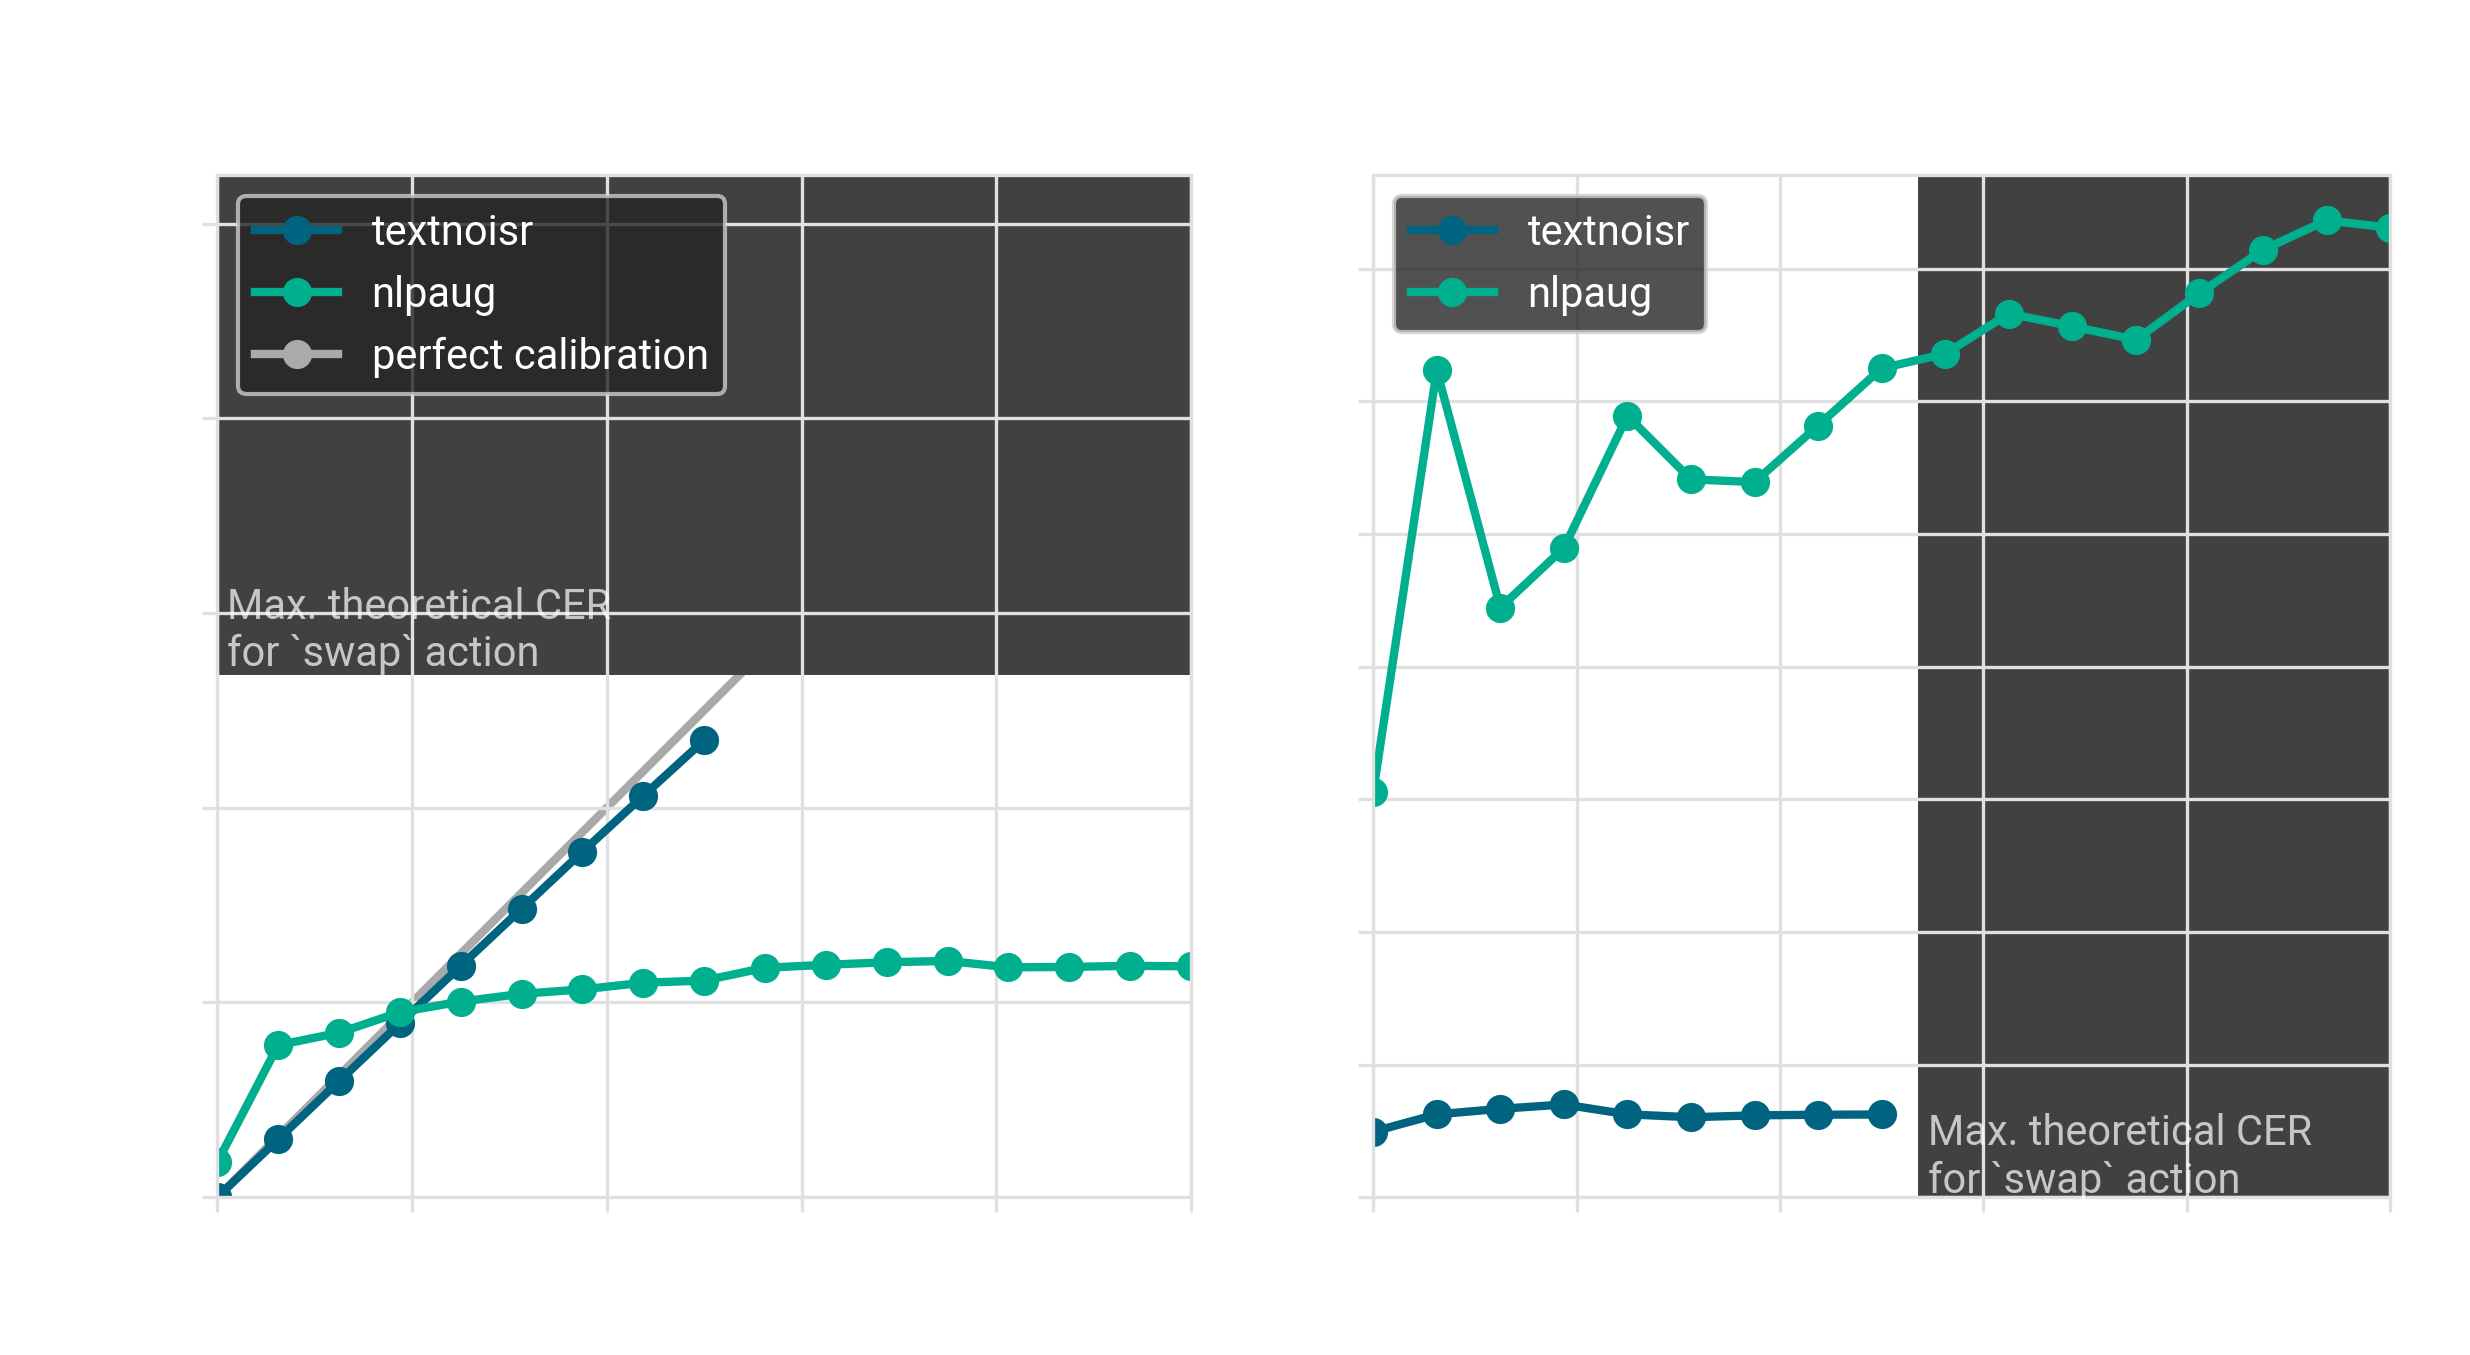
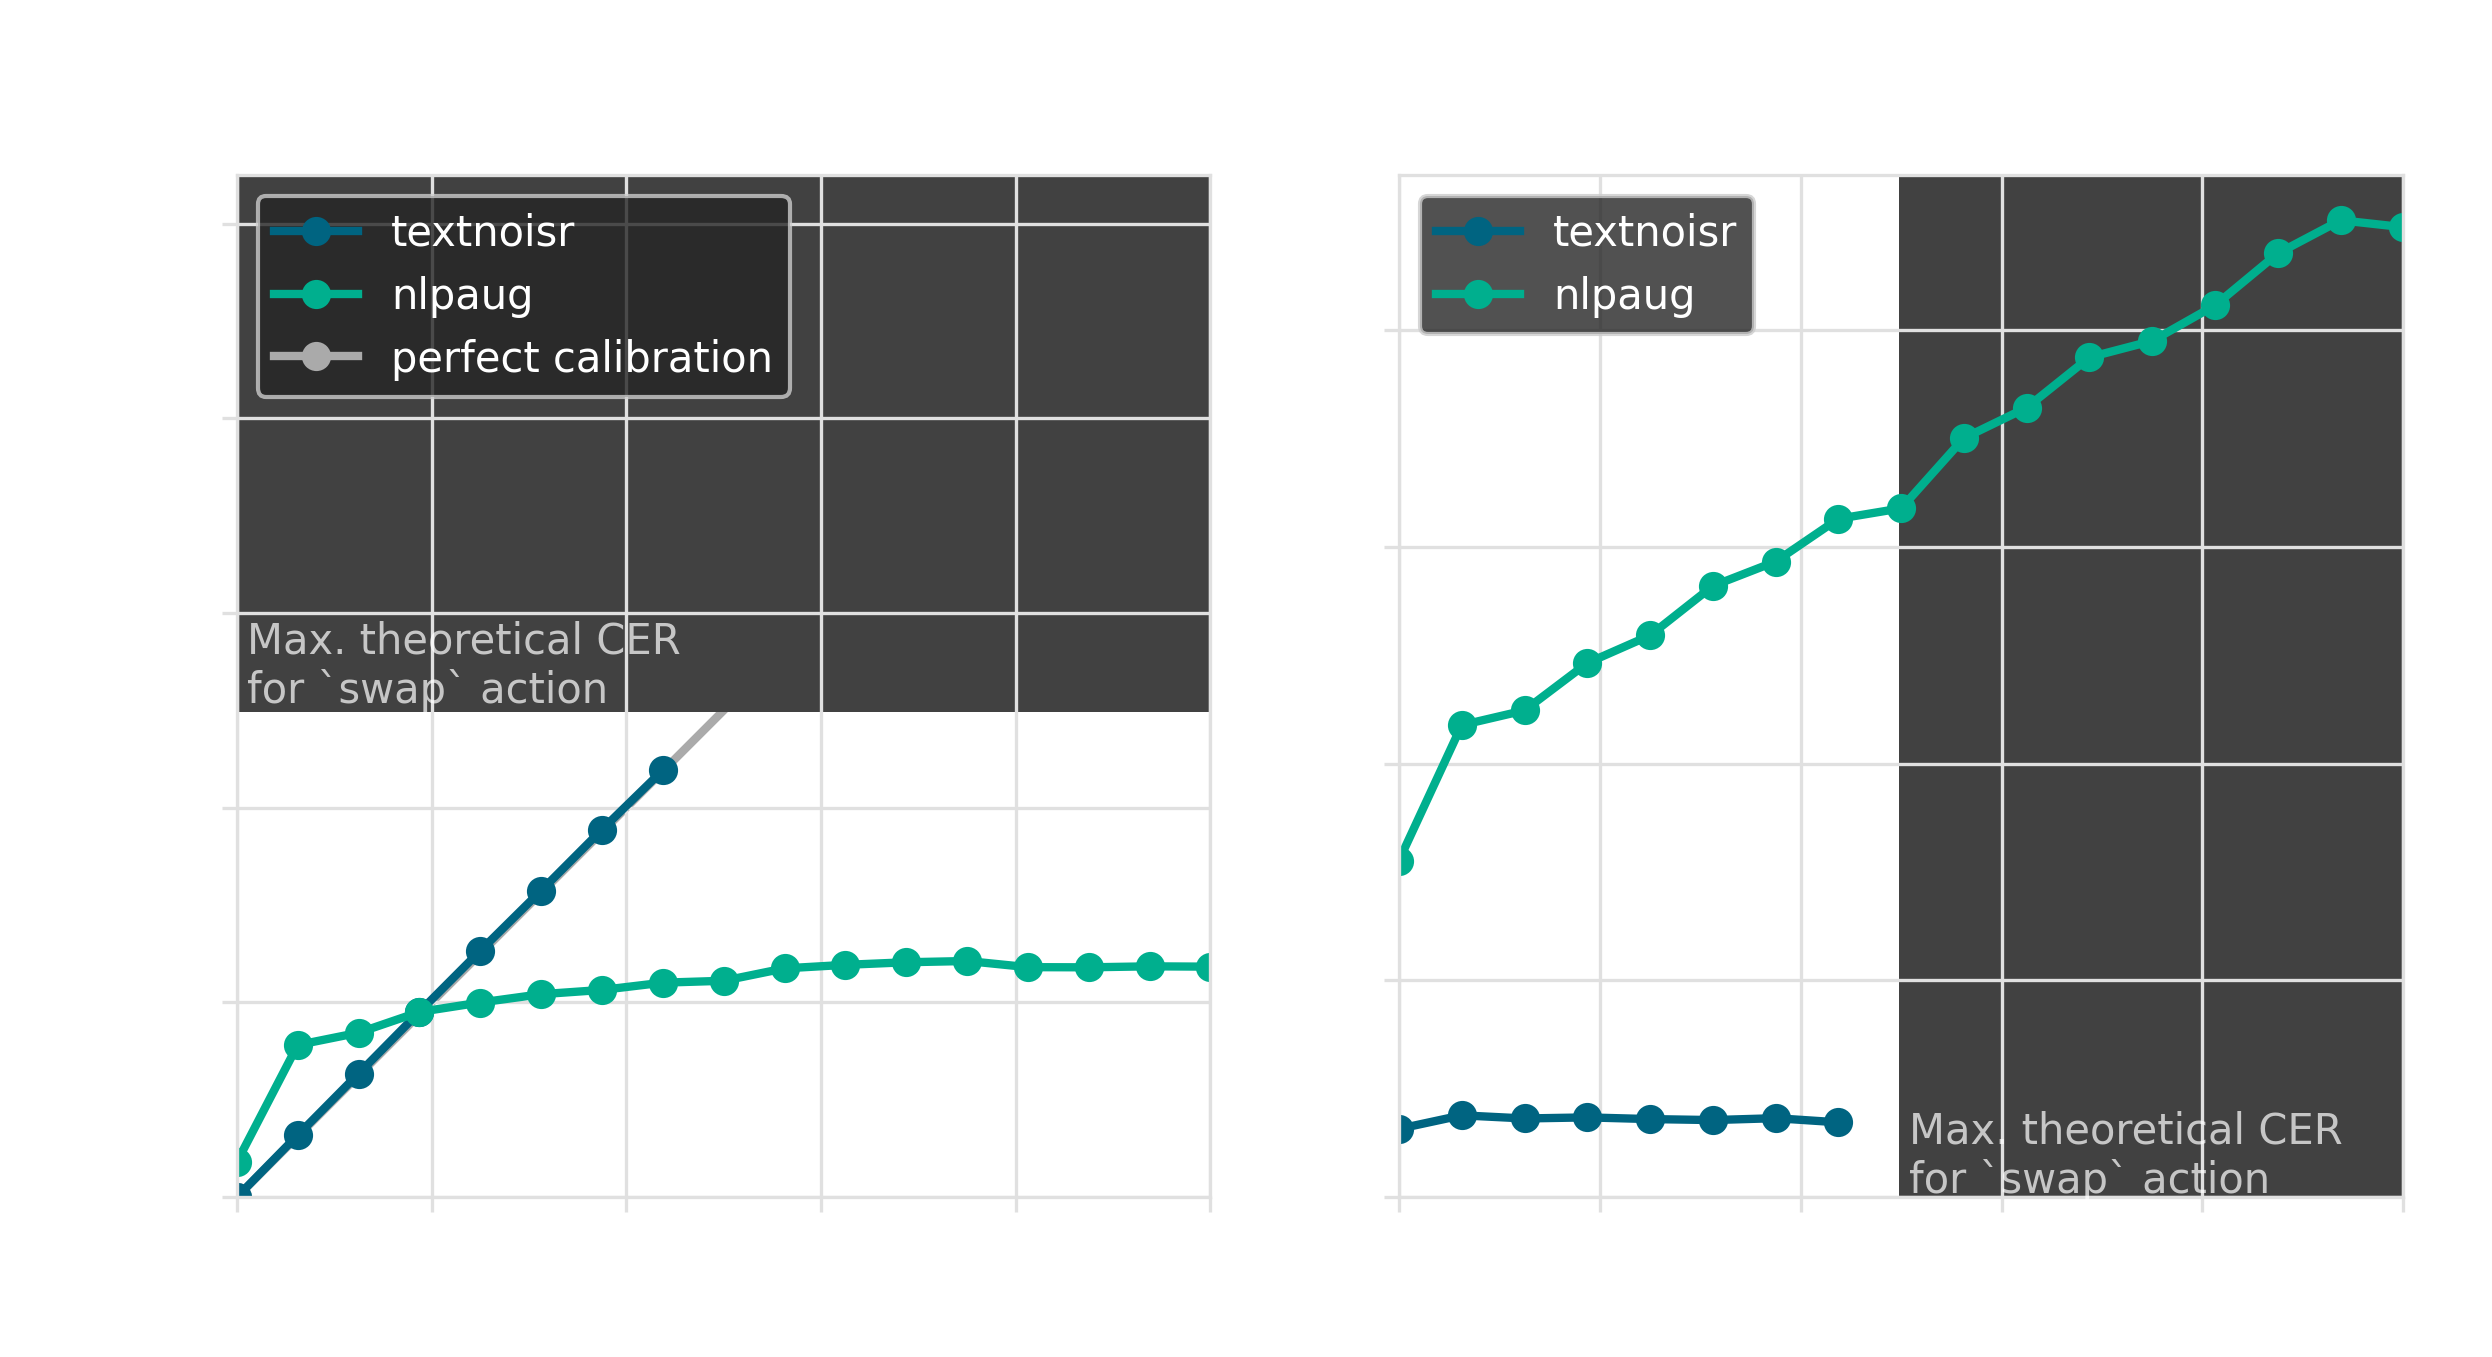
Regenerate results

diff --git a/scripts/generate_figures.py b/scripts/generate_figures.py
@@ -57,7 +57,7 @@ DEFAULT_N_SAMPLES = 17
 
 def max_level(actions):
     if "swap" in actions:
-        return MAX_SWAP_LEVEL
+        return MAX_SWAP_LEVEL / 1.0655 - 0.005
     return 1
 
 
